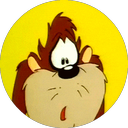
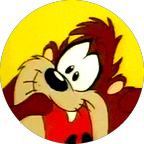
Icono de «La hora Taz» más visible: cara de Taz con el ojo grande y la boca abierta, a 38 px con borde y sombra, asomando por encima de la barra como una chapa

diff --git a/sw.js b/sw.js
@@ -5,7 +5,7 @@
  */
 'use strict';
 
-const SHELL_CACHE = 'shell-v17';
+const SHELL_CACHE = 'shell-v18';
 // Solo se tocan las cachés de este proyecto: en GitHub Pages el origen es
 // compartido con otros proyectos del usuario y caches.keys() no está acotado
 // por scope.
@@ -14,7 +14,7 @@ const OWNED_CACHE = /^shell-v\d+$/;
 const SHELL_ASSETS = [
   './',                       // redundante a propósito (red de seguridad);
   './index.html',             // la navegación resuelve contra './index.html'.
-  './style.css?v=12',
+  './style.css?v=13',
   './app.js?v=12',
   './manifest.json',
   './icons/icon-192.png',
@@ -22,7 +22,7 @@ const SHELL_ASSETS = [
   './icons/icon-maskable-512.png',
   './icons/apple-touch-icon.png',
   './icons/icon.svg',
-  './icons/taz.png',
+  './icons/taz.png?v=2',
   './vendor/leaflet/leaflet.js',
   './vendor/leaflet/leaflet.css',
   './vendor/leaflet/images/marker-icon.png',

diff --git a/style.css b/style.css
@@ -1178,11 +1178,16 @@ input[type="date"], input[type="time"], input[type="datetime-local"] { min-heigh
 /* ============================================================
    LA HORA TAZ · sección bloqueada
    ============================================================ */
+/* La cara de Taz es más grande que los demás iconos y asoma por encima de
+   la barra como una chapa, para que se distinga bien. */
 .tab__taz {
-  width: 26px;
-  height: 26px;
-  border: 2px solid var(--edge);
+  width: 38px;
+  height: 38px;
+  margin-top: -16px;
+  background: var(--lime);
+  border: 2.5px solid var(--edge);
   border-radius: 50%;
+  box-shadow: var(--pop-s);
 }
 .tab--taz[aria-current="page"] .tab__taz { animation: tazSpin 0.7s var(--ease-out); }
 @keyframes tazSpin { from { transform: rotate(-720deg) scale(0.6); } to { transform: none; } }

diff --git a/index.html b/index.html
@@ -41,7 +41,7 @@
   <!-- Leaflet (local) — mapas pequeños de la pestaña "Comer" -->
   <link rel="stylesheet" href="vendor/leaflet/leaflet.css">
 
-  <link rel="stylesheet" href="style.css?v=12">
+  <link rel="stylesheet" href="style.css?v=13">
 </head>
 <body>
 
@@ -148,7 +148,7 @@
       <span>Itinerario</span>
     </button>
     <button class="tab tab--taz" data-tab="taz" type="button" aria-current="false">
-      <img class="tab__taz" src="icons/taz.png" alt="" width="26" height="26">
+      <img class="tab__taz" src="icons/taz.png?v=2" alt="" width="38" height="38">
       <span>La hora Taz</span>
     </button>
     <button class="tab" data-tab="comer" type="button" aria-current="false">
